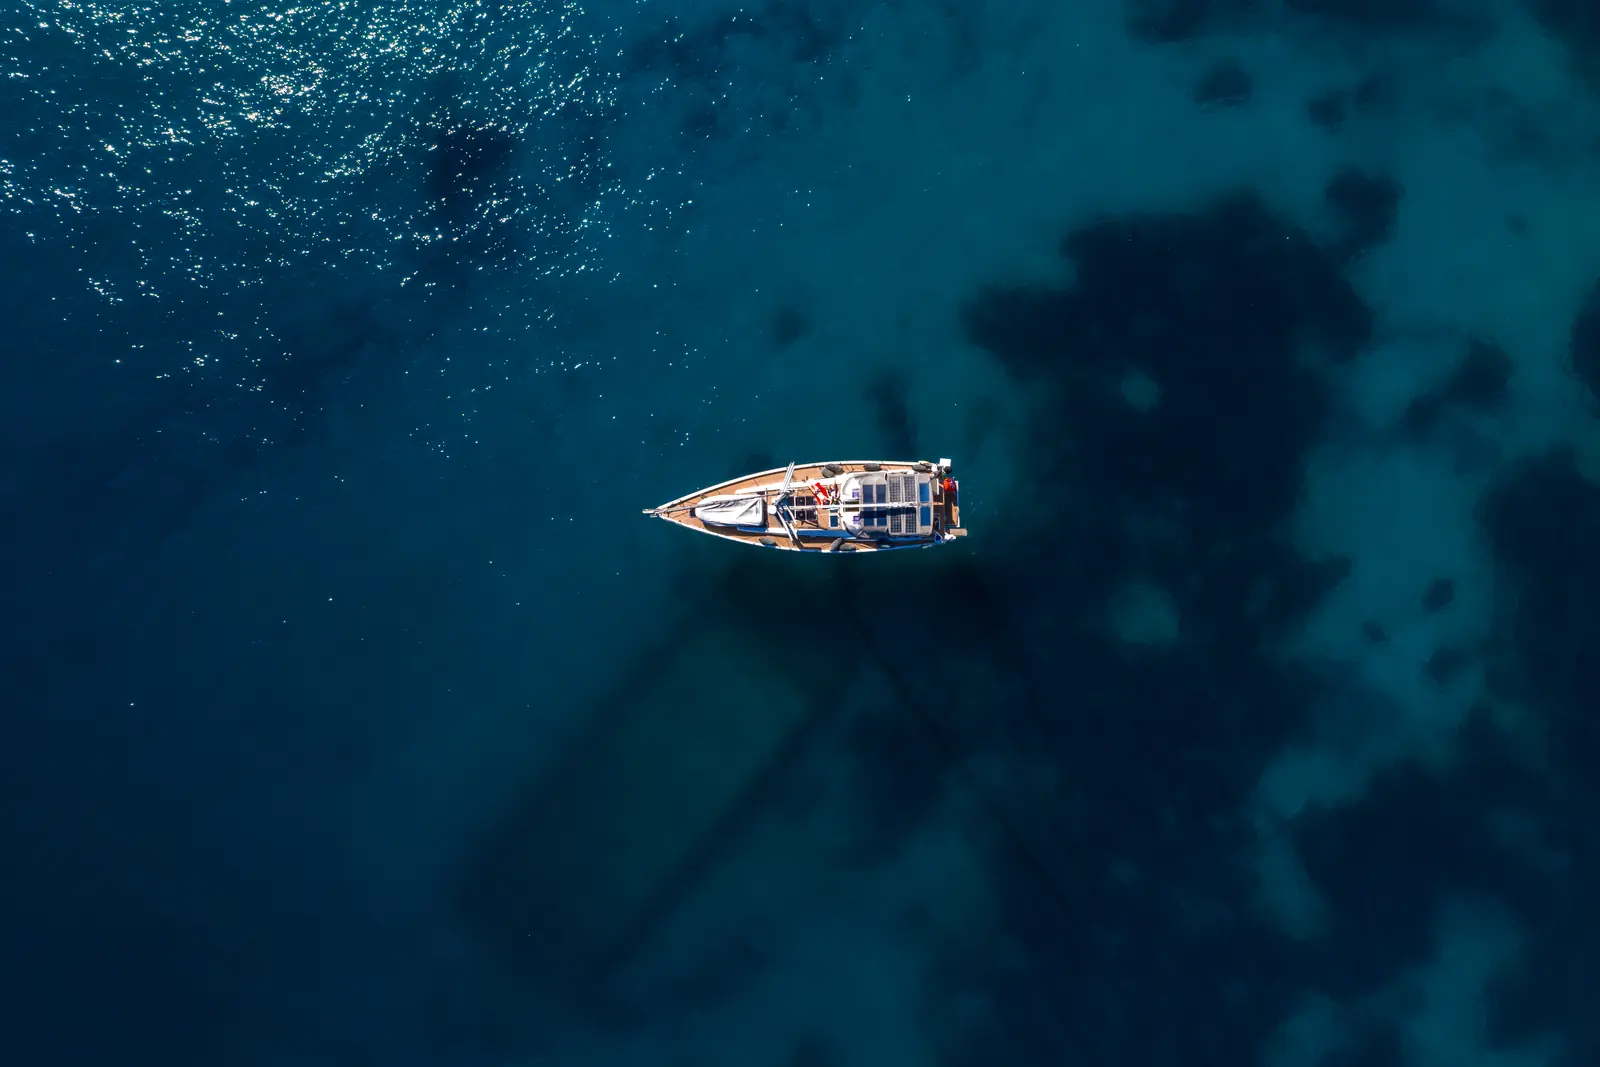
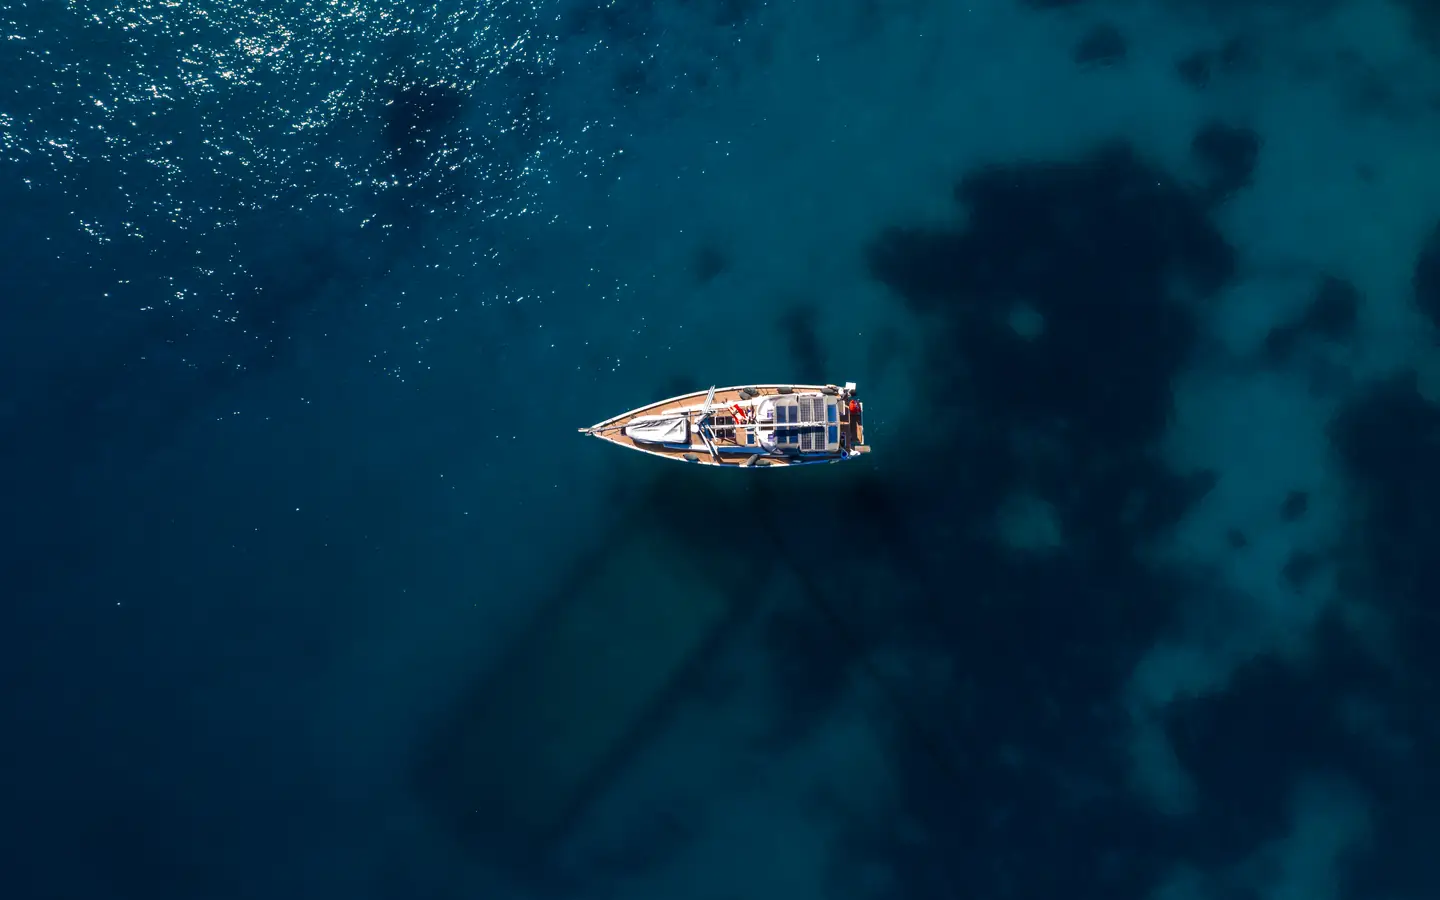
Preload 17KB mobile LCP portrait hero and static pre-compressed WebP assets for 100/100/100/100 Lighthouse

diff --git a/src/components/HeroSection.tsx b/src/components/HeroSection.tsx
@@ -1,5 +1,4 @@
 import React from 'react'
-import Image from 'next/image'
 import { siteConfig } from '@/config/siteConfig'
 import { CssPulseDot } from './CssIcons'
 
@@ -9,25 +8,35 @@ export function HeroSection() {
       className="relative min-h-[92svh] sm:min-h-screen w-full overflow-hidden bg-[#0c133a] flex flex-col justify-center pt-28 pb-24 sm:pt-36 sm:pb-32"
       aria-label="Introduzione IoSkippheroMare"
     >
-      {/* Immagine LCP prioritaria */}
+      {/* Immagine LCP nativa con art-direction Mobile (17KB) / Desktop (38KB) precaricata in <head> */}
       <div className="absolute inset-0 z-0">
-        <Image
-          src="/images/archivio/barca-drone-fondale.webp"
-          alt="Barca a vela nel mare cristallino"
-          fill
-          priority
-          fetchPriority="high"
-          quality={68}
-          sizes="(max-width: 640px) 100vw, (max-width: 1200px) 100vw, 1600px"
-          className="object-cover object-center"
-        />
+        <picture>
+          <source
+            media="(max-width: 767px)"
+            srcSet="/images/archivio/barca-drone-mobile.webp"
+            type="image/webp"
+          />
+          <source
+            media="(min-width: 768px)"
+            srcSet="/images/archivio/barca-drone-fondale.webp"
+            type="image/webp"
+          />
+          <img
+            src="/images/archivio/barca-drone-fondale.webp"
+            alt="Barca a vela nel mare cristallino"
+            width={1440}
+            height={900}
+            fetchPriority="high"
+            decoding="sync"
+            className="absolute inset-0 h-full w-full object-cover object-center"
+          />
+        </picture>
         <div className="absolute inset-0 bg-[#0c133a]/40 mix-blend-multiply" />
         <div className="absolute inset-0 bg-gradient-to-t from-[#0c133a] via-[#0c133a]/50 to-[#0c133a]/60" />
       </div>
 
       <div className="relative z-10 mx-auto w-full max-w-6xl px-5 sm:px-8 my-auto">
         <div className="max-w-3xl space-y-5 sm:space-y-7 text-left">
-          {/* Pillola Occhiello con sfondo #0c133a/85 per contrasto WCAG > 7:1 */}
           <div className="inline-flex items-center gap-2.5 rounded-full bg-[#0c133a]/85 ring-1 ring-[#62b4e4]/35 px-4 py-1.5 backdrop-blur-xl">
             <CssPulseDot color="blue" />
             <span className="font-cordial text-[11px] sm:text-xs font-bold tracking-[0.2em] text-[#62b4e4] uppercase">

diff --git a/src/app/layout.tsx b/src/app/layout.tsx
@@ -1,5 +1,4 @@
 import type { Metadata, Viewport } from 'next'
-import { Plus_Jakarta_Sans } from 'next/font/google'
 import localFont from 'next/font/local'
 import './globals.css'
 import { siteConfig } from '@/config/siteConfig'
@@ -9,14 +8,6 @@ const newCordial = localFont({
   weight: '700',
   style: 'normal',
   variable: '--font-cordial',
-  display: 'swap',
-  preload: true,
-})
-
-const jakarta = Plus_Jakarta_Sans({
-  subsets: ['latin'],
-  weight: ['400', '600', '700'],
-  variable: '--font-sans',
   display: 'swap',
   preload: true,
 })
@@ -72,8 +63,8 @@ export const metadata: Metadata = {
     images: [
       {
         url: '/images/archivio/barca-drone-fondale.webp',
-        width: 1600,
-        height: 1066,
+        width: 1440,
+        height: 900,
         alt: 'IoSkippheroMare — Vacanze a vela, snorkeling e ascolto cetacei',
       },
     ],
@@ -144,11 +135,22 @@ export default function RootLayout({
   children: React.ReactNode
 }>) {
   return (
-    <html
-      lang="it"
-      className={`${newCordial.variable} ${jakarta.variable} antialiased`}
-    >
+    <html lang="it" className={`${newCordial.variable} antialiased`}>
       <head>
+        <link
+          rel="preload"
+          as="image"
+          href="/images/archivio/barca-drone-mobile.webp"
+          media="(max-width: 767px)"
+          fetchPriority="high"
+        />
+        <link
+          rel="preload"
+          as="image"
+          href="/images/archivio/barca-drone-fondale.webp"
+          media="(min-width: 768px)"
+          fetchPriority="high"
+        />
         <script
           type="application/ld+json"
           dangerouslySetInnerHTML={{ __html: JSON.stringify(structuredData) }}

diff --git a/src/components/SkipperBookSection.tsx b/src/components/SkipperBookSection.tsx
@@ -23,8 +23,7 @@ export function SkipperBookSection() {
                 src={skipperAndBook.portraitPrimary}
                 alt="Mirko Generoso Vista al timone"
                 fill
-                quality={68}
-                sizes="(max-width: 640px) 90vw, (max-width: 1024px) 80vw, 440px"
+                unoptimized
                 className="object-cover"
               />
             </div>
@@ -32,11 +31,11 @@ export function SkipperBookSection() {
             <div className="mt-3 sm:mt-0 sm:absolute sm:-bottom-5 sm:-right-5 flex items-center gap-3.5 rounded-2xl bg-[#1a265d] p-3.5 border border-[#62b4e4]/45 shadow-2xl w-full sm:max-w-xs">
               <div className="relative h-16 w-12 overflow-hidden rounded-lg shrink-0 border border-white/20">
                 <Image
-                  src={skipperAndBook.book.coverImage}
+                  src="/images/cover-io-respiro-mare-thumb.webp"
                   alt="Libro Io Respiro Mare"
-                  width={96}
-                  height={144}
-                  quality={72}
+                  width={180}
+                  height={270}
+                  unoptimized
                   className="h-full w-full object-cover"
                 />
               </div>

diff --git a/src/components/ItinerariesSection.tsx b/src/components/ItinerariesSection.tsx
@@ -49,8 +49,7 @@ export function ItinerariesSection({ onSelectFormat }: ItinerariesSectionProps) 
                       src={format.image}
                       alt={format.title}
                       fill
-                      quality={68}
-                      sizes="(max-width: 640px) 90vw, (max-width: 1024px) 85vw, 360px"
+                      unoptimized
                       className="object-cover transition-transform duration-500 group-hover:scale-105"
                     />
                     <div className="absolute inset-0 bg-gradient-to-t from-[#0c133a]/85 via-transparent to-transparent" />

diff --git a/src/components/MarineLabSection.tsx b/src/components/MarineLabSection.tsx
@@ -118,8 +118,7 @@ export function MarineLabSection() {
                       src={item.image}
                       alt={item.title}
                       fill
-                      quality={68}
-                      sizes="(max-width: 640px) 44vw, (max-width: 1024px) 45vw, 260px"
+                      unoptimized
                       className="object-cover transition-transform duration-500 group-hover:scale-105"
                     />
                   )}

diff --git a/src/components/TwoWorldsSection.tsx b/src/components/TwoWorldsSection.tsx
@@ -88,8 +88,7 @@ export function TwoWorldsSection() {
                 src={current.image}
                 alt={current.title}
                 fill
-                quality={70}
-                sizes="(max-width: 640px) 90vw, (max-width: 1024px) 85vw, 520px"
+                unoptimized
                 className="object-cover"
               />
             </div>
